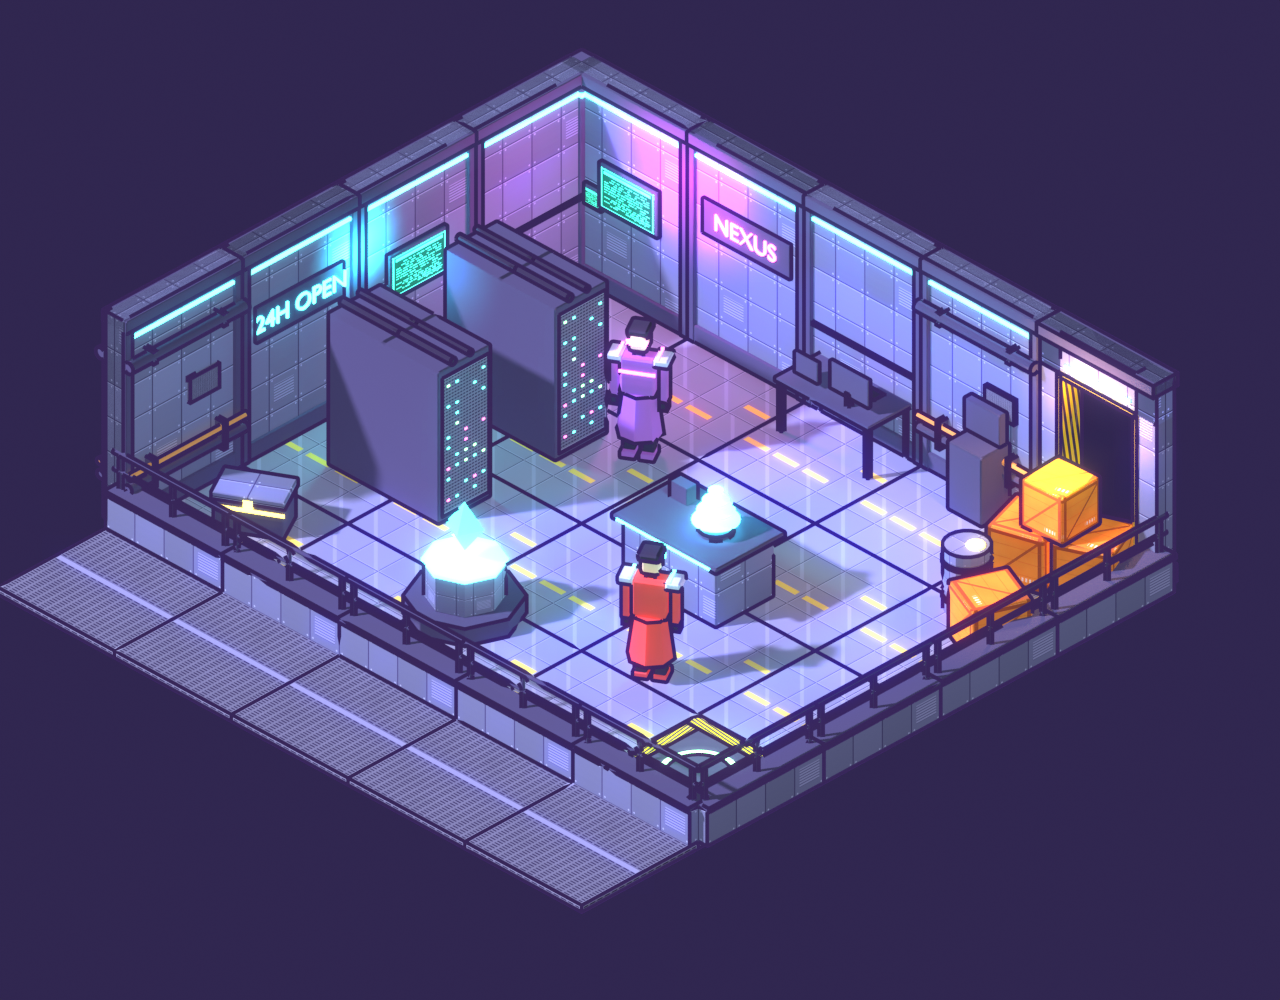
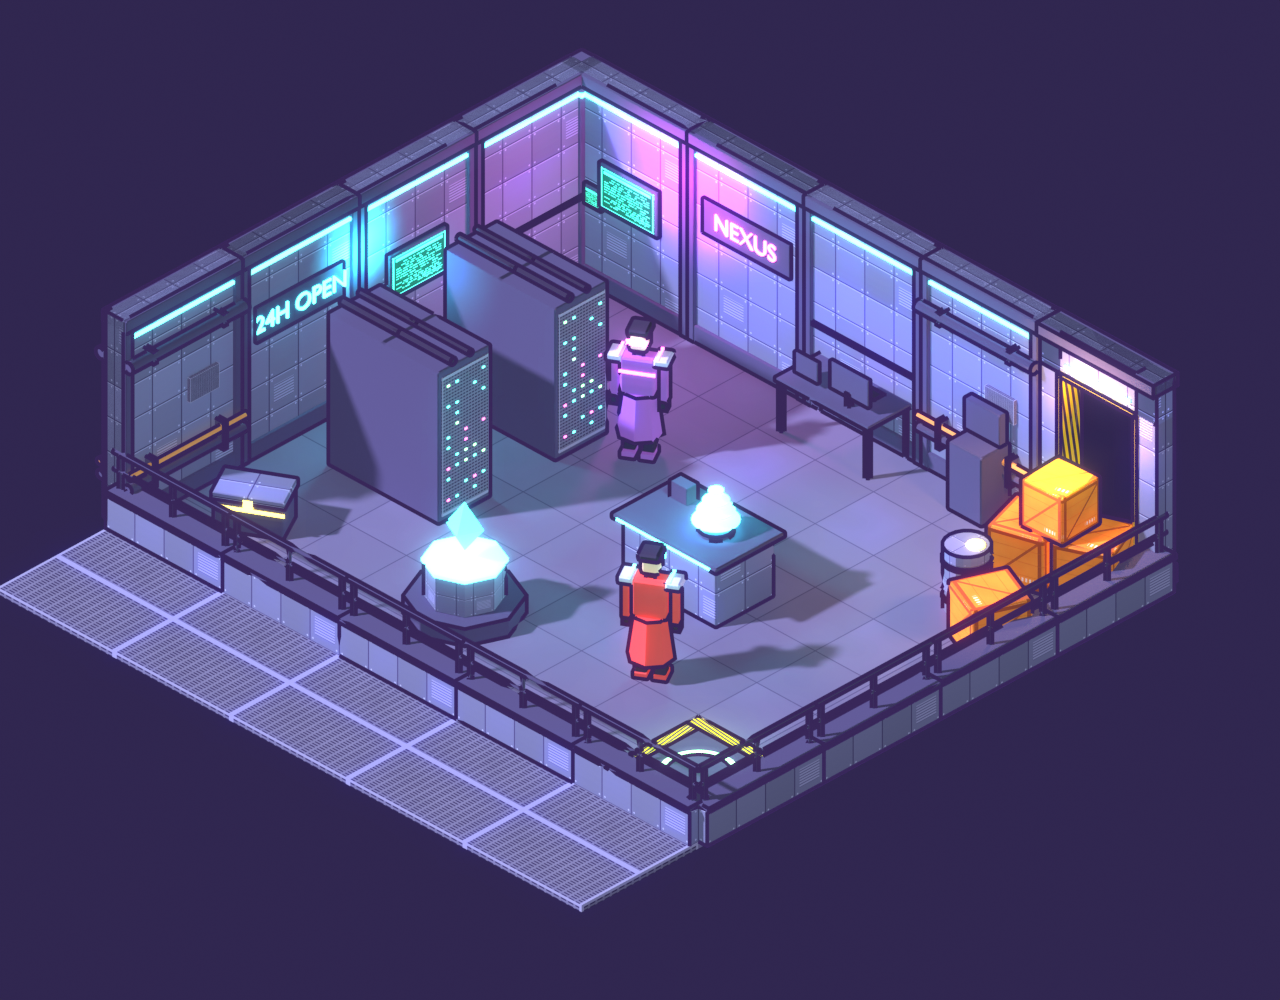
Kit Blender : sol en grandes dalles sobres, sans contours sur les sols
Claude-Session: https://claude.ai/code/session_01GapskknV9HJrf6LuNL2yHQ

diff --git a/blender/textures.py b/blender/textures.py
@@ -92,35 +92,26 @@ def metal_panels(seed=1):
 
 
 def floor_tiles(seed=2):
-    """Dalles de 50 cm gris-bleu, joints sombres, arête claire et marquages peints jaunes.
+    """Grandes dalles d'un mètre, indigo moyen, joints fins et quelques variations de ton peintes.
     La texture couvre une tuile de 2 m."""
     rng = _rng(seed)
     image = np.zeros((SIZE, SIZE, 4), dtype=np.float32)
     image[..., 3] = 1.0
-    tile = SIZE // 4
+    tile = SIZE // 2
     y, x = np.mgrid[0:SIZE, 0:SIZE]
-    image[..., :3] = np.array([0.3, 0.31, 0.5])
-    for ty in range(4):
-        for tx in range(4):
-            shade = 0.9 + 0.18 * rng.random()
+    image[..., :3] = np.array([0.17, 0.16, 0.33])
+    for ty in range(2):
+        for tx in range(2):
+            shade = 0.95 + 0.1 * rng.random()
             image[ty * tile:(ty + 1) * tile, tx * tile:(tx + 1) * tile, :3] *= shade
 
-    # Reflet peint en diagonale, typique des sols d'anime.
-    shine = ((x + y) % 180 < 26) & ((x + y) % 180 > 8)
-    _paint(image, shine.astype(float), (0.5, 0.52, 0.78), 0.35)
+    # Taches de ton très douces, comme un fond peint à la main.
+    wash = _fractal_noise(rng, SIZE, (3, 6))
+    image[..., :3] *= (0.94 + 0.12 * wash)[..., None]
 
     local_x, local_y = x % tile, y % tile
-    _paint(image, ((local_x < 3) | (local_y < 3)).astype(float), (0.08, 0.07, 0.2))
-    _paint(image, (((local_x >= 3) & (local_x < 6)) | ((local_y >= 3) & (local_y < 6))).astype(float),
-           (0.55, 0.58, 0.85), 0.5)
-
-    # Une bande de marquage sur une dalle sur trois environ.
-    for ty in range(4):
-        for tx in range(4):
-            if rng.random() < 0.3:
-                band = ((x // tile == tx) & (y // tile == ty) & (local_y > 52) & (local_y < 76)
-                        & (local_x > 14) & (local_x < tile - 14))
-                _paint(image, band.astype(float), (0.95, 0.72, 0.12), 0.85)
+    seam = (local_x < 2) | (local_x > tile - 3) | (local_y < 2) | (local_y > tile - 3)
+    _paint(image, seam.astype(float), (0.09, 0.08, 0.2))
     return np.clip(image, 0, 1)
 
 

diff --git a/blender/kit.py b/blender/kit.py
@@ -105,7 +105,7 @@ def build_materials():
     for name, color in (("coat_red", (0.8, 0.1, 0.12)), ("coat_purple", (0.4, 0.15, 0.6)),
                         ("coat_mustard", (0.85, 0.6, 0.12))):
         material(name, color=color, metallic=0.0, roughness=0.5)
-    material("floor_tiles", metallic=0.2, roughness=0.4,
+    material("floor_tiles", metallic=0.1, roughness=0.3,
              texture=image_from_array("floor_tiles", textures.floor_tiles()))
     material("grating", metallic=0.3, roughness=0.5,
              texture=image_from_array("grating", textures.grating()))
@@ -717,8 +717,9 @@ def render_preview(kit, path):
     for obj in scene.objects:
         if obj.type != "MESH":
             continue
-        glowing = [slot.material is not None and slot.material.name.startswith(("neon", "screen", "relic"))
-                   for slot in obj.material_slots]
+        # Ni sur les sols : chaque tuile tracerait un quadrillage épais.
+        glowing = [slot.material is not None and slot.material.name.startswith(
+            ("neon", "screen", "relic", "floor", "grating")) for slot in obj.material_slots]
         mesh = obj.data
         marks = mesh.attributes.get("freestyle_face") or mesh.attributes.new(
             "freestyle_face", "BOOLEAN", "FACE")
